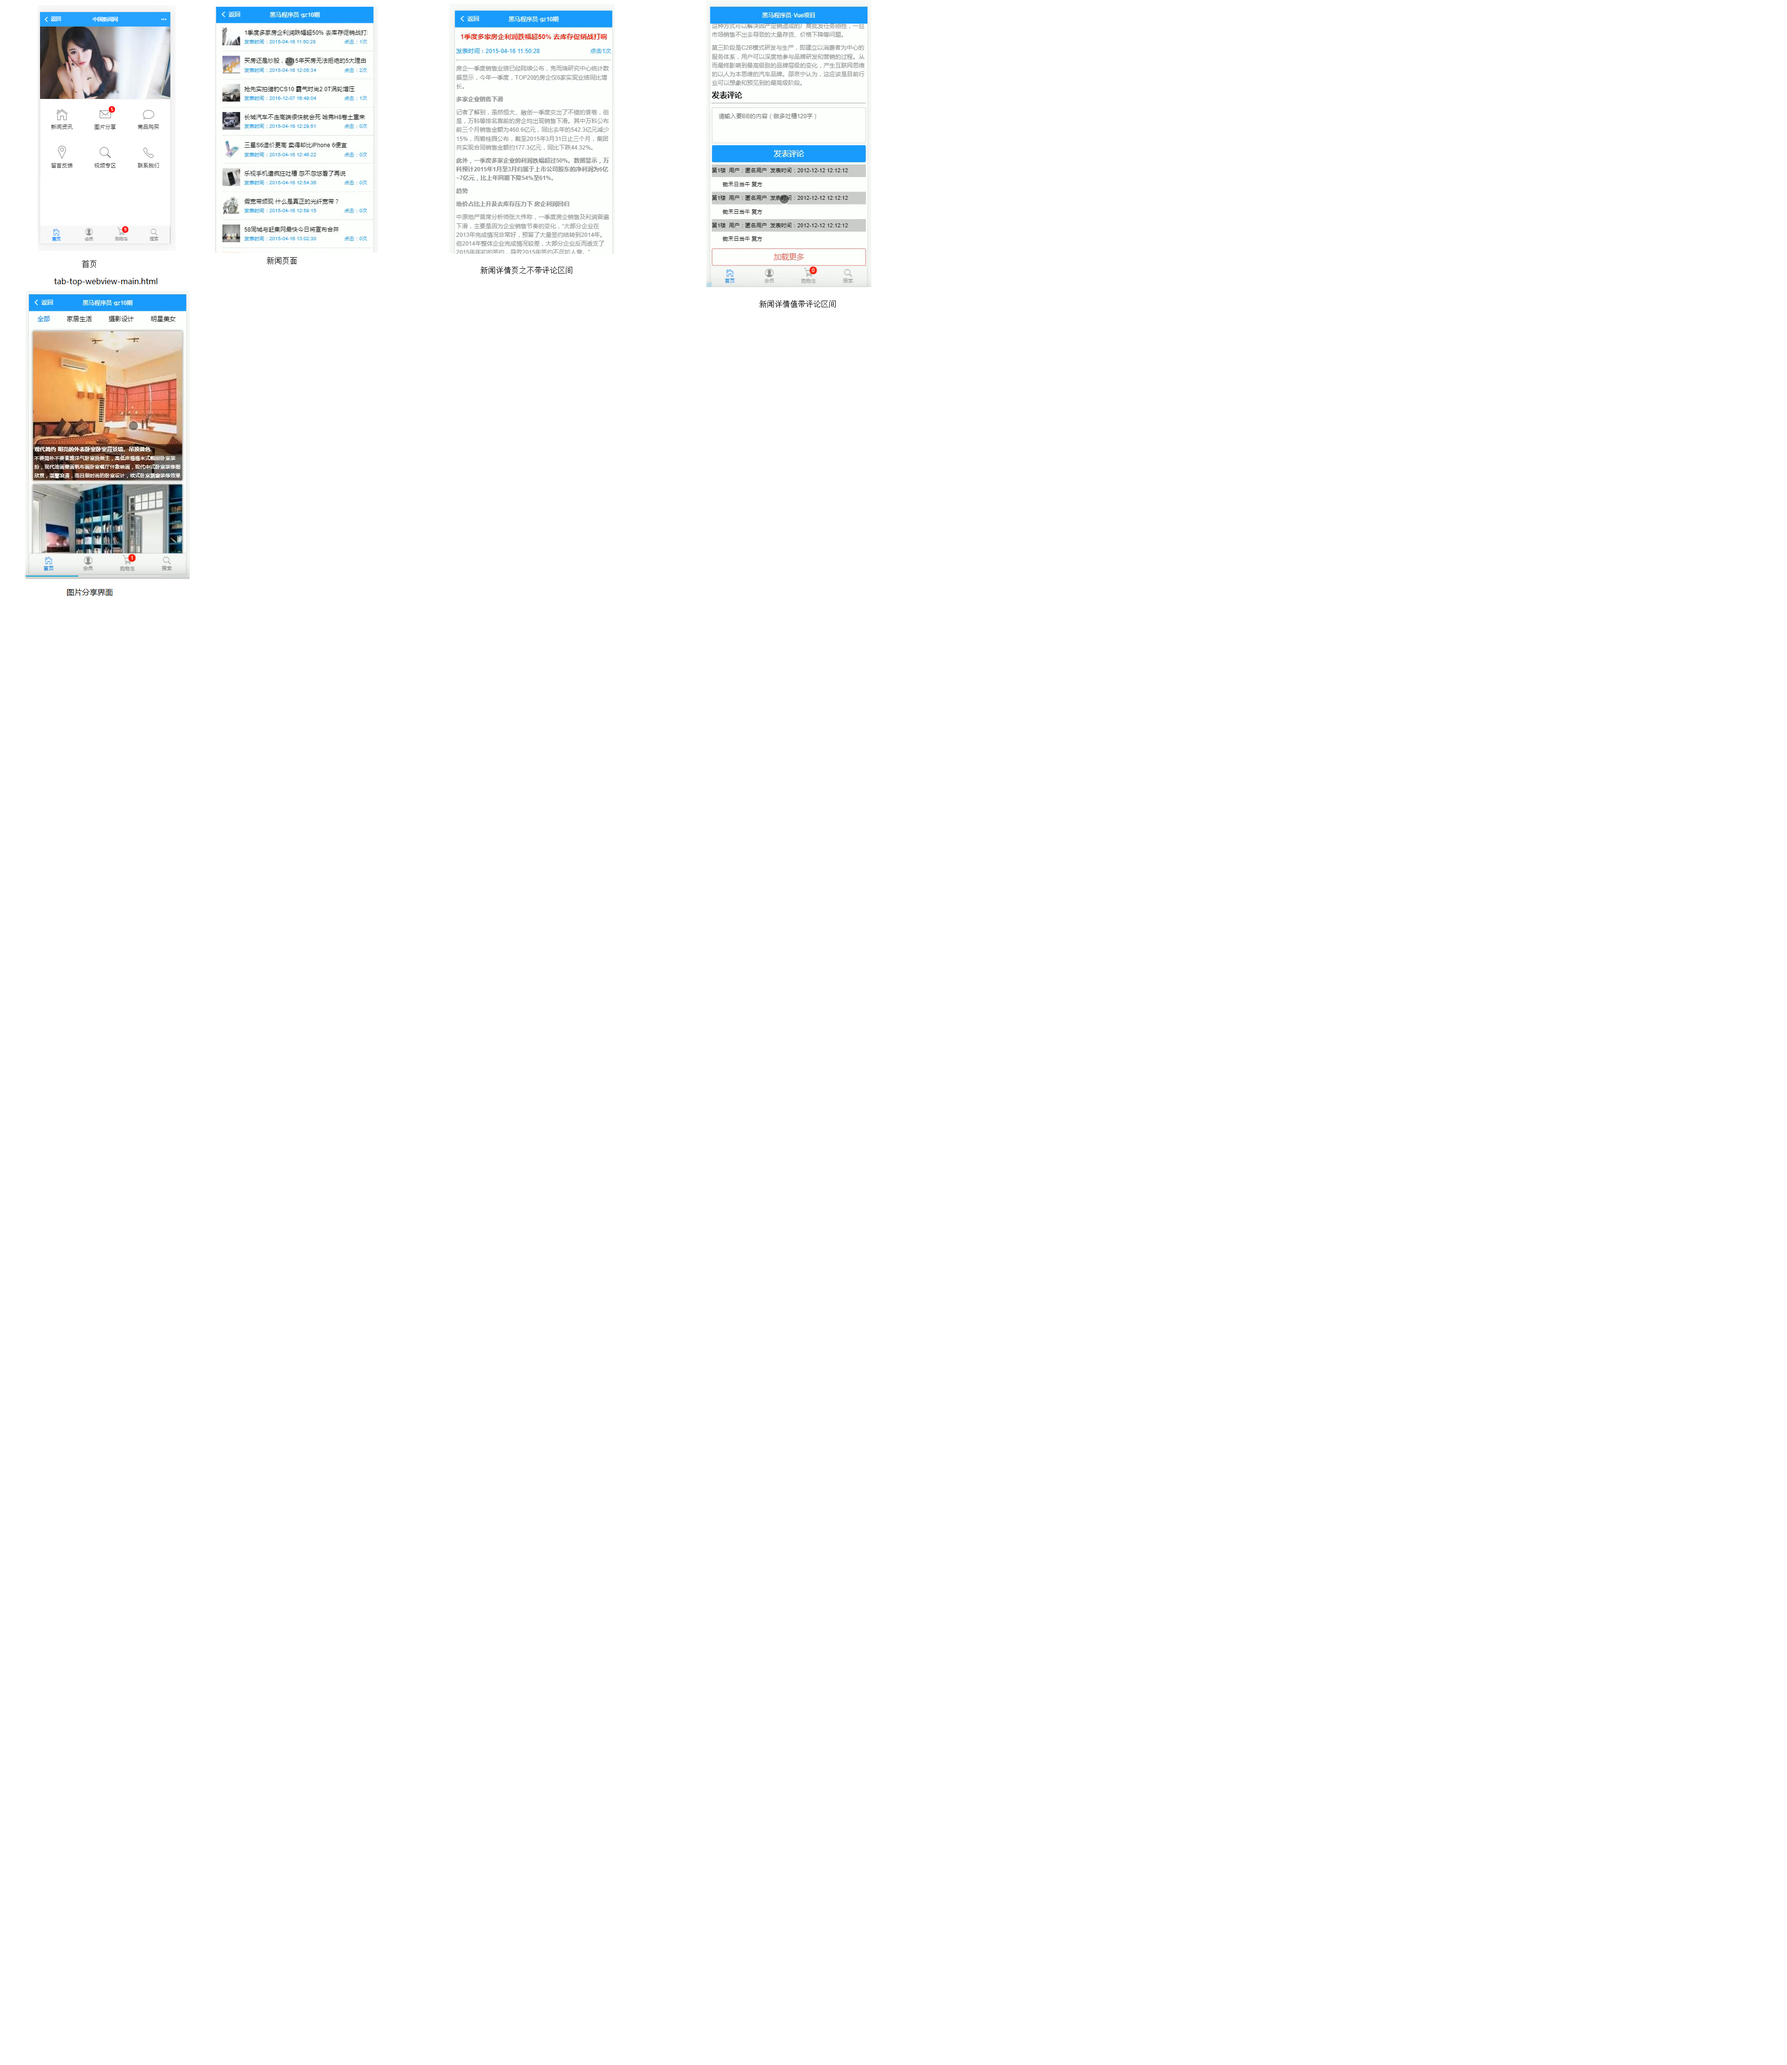
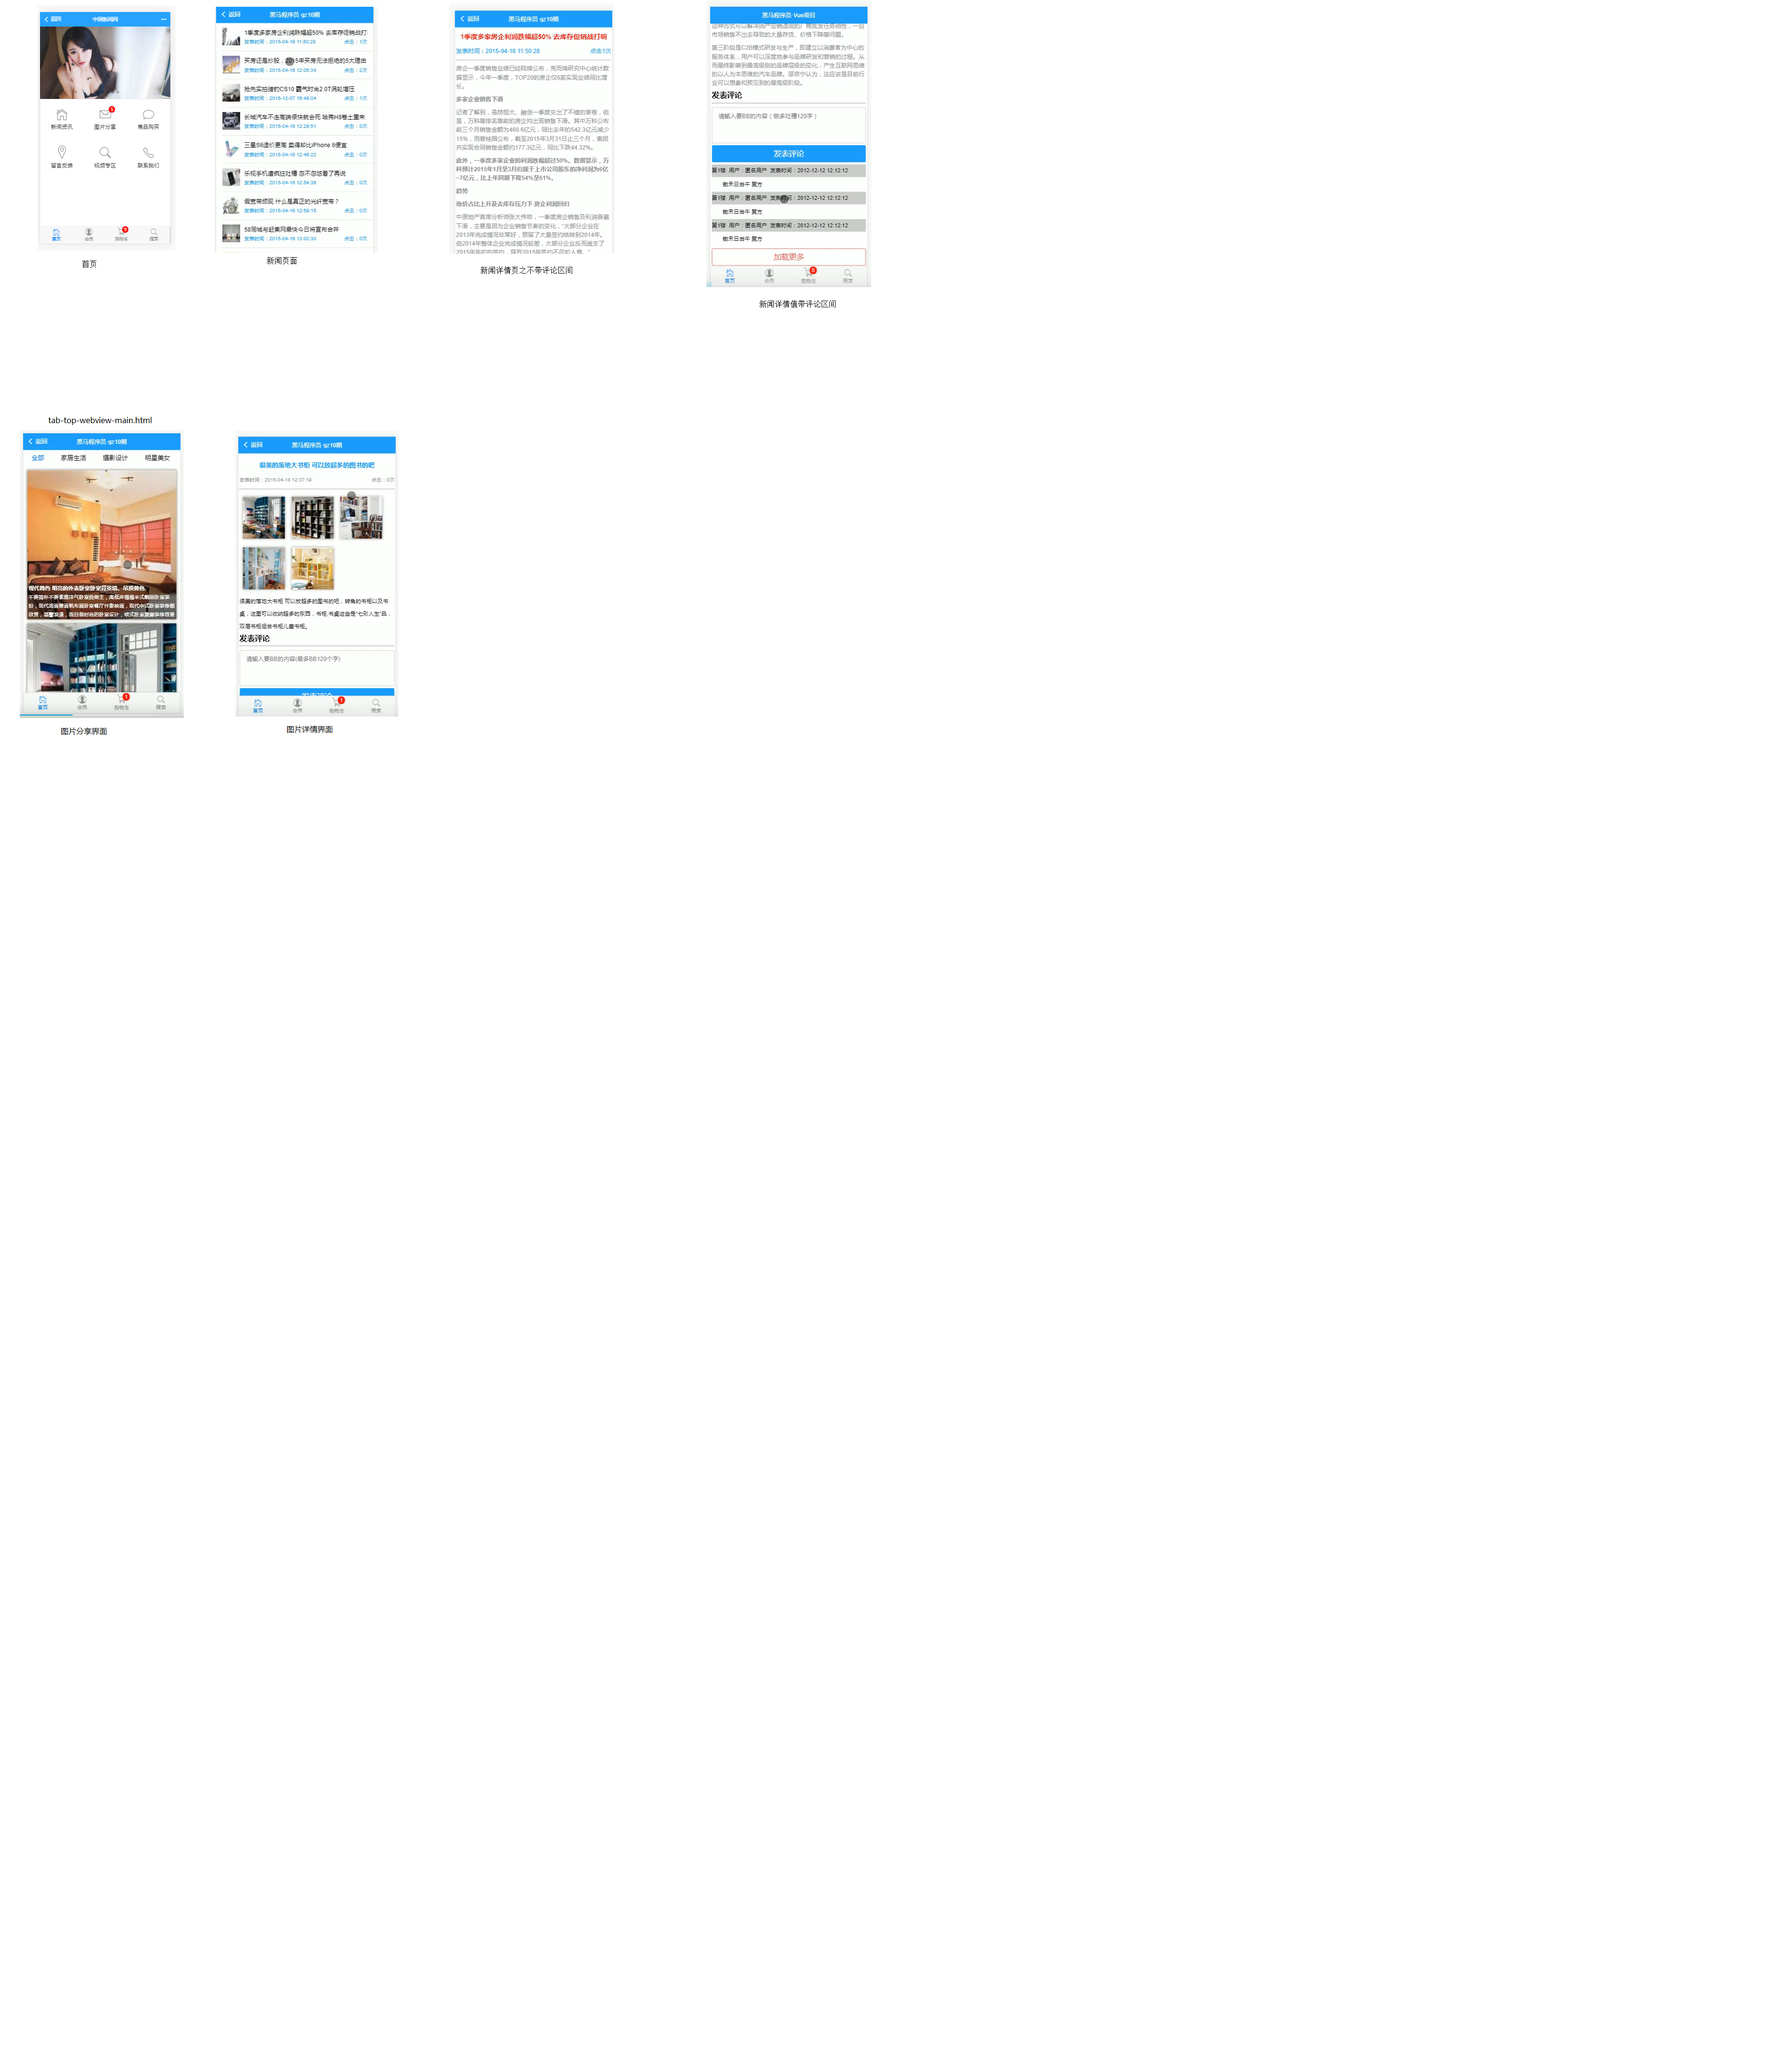
滑动导航

Changed region(s): [[0.0, 0.1243, 0.2173, 0.3729]]

diff --git a/src/components/SharePic/PictureDetail.vue b/src/components/SharePic/PictureDetail.vue
@@ -1,0 +1,107 @@
+<template>
+  <div class="picturedetail">
+    <!-- 标题区域 -->
+    <h1 style="font-size:16px;color:#3996e0;text-align:center;margin:20px">图片的标题菜单栏</h1>
+    <p class="picturedetail_box1">
+      <span>发表时间</span>
+      <span>点击次数</span>
+    </p>
+    <hr />
+
+    <!-- 图片内容显示区域 -->
+    <div class="picturedetail-content">
+        <div class="picturedetail-slt">
+          <!--预览-->
+          <vue-preview :slides="slide1" class="preview"></vue-preview>
+        </div>
+        
+     <p style="font-size:12px;line-height:20px;text-align:left;margin-top:10px">
+            不仅扩大了的比较开朗八块腹肌博客的拉丁饭店冷库妇女快乐的农夫看到了发你的防空雷达反倒是克里夫'f东方都对你豆腐皮二篇我给警告
+        </p>
+
+  
+    </div>
+ 
+    <!-- 评论区域 -->
+    <comment :id="id"></comment>
+  </div>
+</template>
+<script>
+import comment from "../subcomponents/Comment";
+export default {
+  data() {
+    return {
+      slide1: [
+        {
+          src:
+            "https://timgsa.baidu.com/timg?image&quality=80&size=b9999_10000&sec=1583829927533&di=67a741118b822f6d9aae8fafe53e89ea&imgtype=jpg&src=http%3A%2F%2Fimg0.imgtn.bdimg.com%2Fit%2Fu%3D3446073985%2C4093285840%26fm%3D214%26gp%3D0.jpg",
+          msrc:
+            "https://farm4.staticflickr.com/3902/14985871946_86abb8c56f_m.jpg",
+          alt: "picture2",
+          title: "Image Caption 2",
+          w: 612,
+          h: 918
+        },
+        {
+          src:
+            "https://farm4.staticflickr.com/3902/14985871946_86abb8c56f_b.jpg",
+          msrc:
+            "https://farm4.staticflickr.com/3902/14985871946_86abb8c56f_m.jpg",
+          alt: "picture2",
+          title: "Image Caption 2",
+          w: 600,
+          h: 200
+        },
+        {
+          src:
+            "https://farm4.staticflickr.com/3902/14985871946_86abb8c56f_b.jpg",
+          msrc:
+            "https://farm4.staticflickr.com/3902/14985871946_86abb8c56f_m.jpg",
+          alt: "picture2",
+          title: "Image Caption 2",
+          w: 600,
+          h: 200
+        },
+        {
+          src:
+            "https://farm4.staticflickr.com/3902/14985871946_86abb8c56f_b.jpg",
+          msrc:
+            "https://farm4.staticflickr.com/3902/14985871946_86abb8c56f_m.jpg",
+          alt: "picture2",
+          title: "Image Caption 2",
+          w: 600,
+          h: 200
+        }
+      ]
+    };
+  },
+  methods: {
+    handleClose() {
+      console.log("close event");
+    }
+  },
+  components: {
+    comment
+  }
+};
+</script>
+<style scoped>
+
+.picturedetail_box1 {
+  display: flex;
+  justify-content: space-between;
+  
+}
+
+.picturedetail{
+  padding: 0 5px;
+}
+
+.preview img{
+  box-shadow: 0 0 9px 1px #999;
+}
+
+
+
+
+</style>

diff --git a/src/router/index.js b/src/router/index.js
@@ -8,6 +8,9 @@ import NewsList from '@/components/News/NewsList'
 import NewsDetail from '@/components/News/NewsDetail'
 import Comment from '@/components/subcomponents/Comment'
 import PicticureList from '@/components/SharePic/PicticureList'
+import PictureDetail from '@/components/SharePic/PictureDetail'
+
+
 Vue.use(Router)
 
 export default new Router({
@@ -55,6 +58,11 @@ export default new Router({
       path:'/picticureList',
       name: 'picticureList',
       component: PicticureList
+    },
+    {
+      path:'/pictureDetail',
+      name: 'pictureDetail',
+      component: PictureDetail
     }
   ],
   linkActiveClass:'mui-active'

diff --git a/src/main.js b/src/main.js
@@ -8,6 +8,21 @@ import router from './router'
 import  './lib/mui/css/mui.css'
 import './lib/mui/css/icons-extra.css'
 
+import VuePreview from 'vue-preview'
+
+Vue.use(VuePreview, {
+  mainClass: 'pswp--minimal--dark',
+  barsSize: {top: 0, bottom: 0},
+  captionEl: false,
+  fullscreenEl: false,
+  shareEl: false,
+  bgOpacity: 0.85,
+  tapToClose: true,
+  tapToToggleControls: false
+})
+
+
+
 
 Vue.use(Mint);
 //axios

diff --git a/src/App.vue b/src/App.vue
@@ -91,4 +91,21 @@ export default {
 .mui-active{
  color: red;
 }
+
+/*图片预览 缩略图*/
+.preview figure {
+  float: left;
+  width: 30%;
+  /* height:calc(30vw - 0px);  */
+  margin: 1.5%;
+}
+
+.preview figure img {
+  width: 100%;
+}
+
+.preview{
+     height: calc(47vw - 0px);
+    /* background-color: brown */
+}
 </style>

diff --git a/README.md b/README.md
@@ -190,3 +190,44 @@ image[lazy=loading] {  //实际应用因该把image换为img
 +  评论区间指定props: ["id"]
 +  子组件引用时候传参 <comment :id=id></comment>
 +  通过flage解决第一次请求时候Toast弹出"已经到底啦"
+
+
+## 滑动导航
+
+> 图片分享中的详情页
++ 官方文档https://github.com/LS1231/vue-preview
+但是官方文档中的图片都是横向的
+
++ 解决办法请参考
+https://www.cnblogs.com/zhinian-/p/11113267.html
+如果按照博客中介绍的全局样式不行的话，还可以设置全局中的样式文件为：
+```
+/*图片预览 缩略图*/
+.preview figure {
+  float: left;
+  width: 30%;
+  /* height:calc(30vw - 0px);  */ //将过多的内容移除
+  margin: 1.5%;
+}
+
+.preview figure img {
+  width: 100%;
+}
+
+.preview{
+     height: calc(47vw - 0px); //设置指定的高度百分比
+    background-color: brown
+}
+
+```
+
++ 循环的图片必须要有宽和高，我们可以在前端手动的添加，
+将返回的数组进行遍历添加，如
+```
+//先将返回的数据进行遍历
+resp.data.message forEach (item = {
+    item.w = 600 ;
+    item.h = 400;
+}) ;
+保存到要遍历的list中
+```
